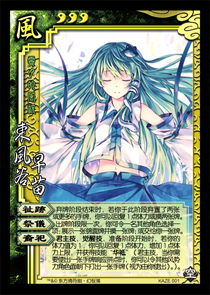
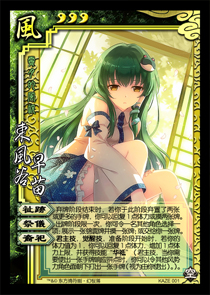
typo，早苗新立绘
丰姬和遐闪 和一张错图
还有早苗新立绘

diff --git a/scenarios/jianniang.html b/scenarios/jianniang.html
@@ -629,7 +629,7 @@ footnotes: function () {
 <div class="title">臨兵之行</div>
 <div class="quoteblock">
 <div class="content"><p>瑞　凤：瑞鳳です。改装後の服はどうでしょうか？　また頑張ります！ </p></div></div>
-<div class="paragraph"><p><font color="blue"><b>觉醒技</b></font>，当瑞凤受到一次伤害后，若其已损失的体力值不小于２，其将体力补至等同于其体力上限，然后获得技能"<b>遐闪</b>"（锁定技，你于出牌阶段使用的【杀】可以无视合法性指定一名角色为目标。若目标角色不在你的攻击范围内，则"<b>翼咆</b>"无效，直到此回合结束。）。</p></div>
+<div class="paragraph"><p><font color="blue"><b>觉醒技</b></font>，当瑞凤受到一次伤害后，若其已损失的体力值不小于２，其将体力补至等同于其体力上限，然后获得技能"<b>遐闪</b>"（你于出牌阶段使用的【杀】可以无视合法性指定一名角色为目标。若目标角色不在你的攻击范围内，则"<b>翼咆</b>"无效，直到此回合结束。）。</p></div>
 </div></div>
 <div class="sidebarblock">
 <div class="content">
